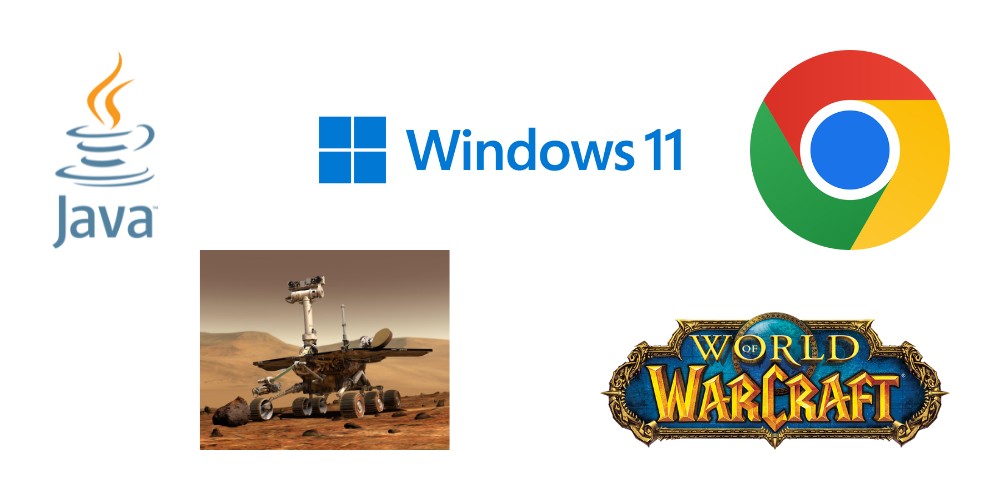
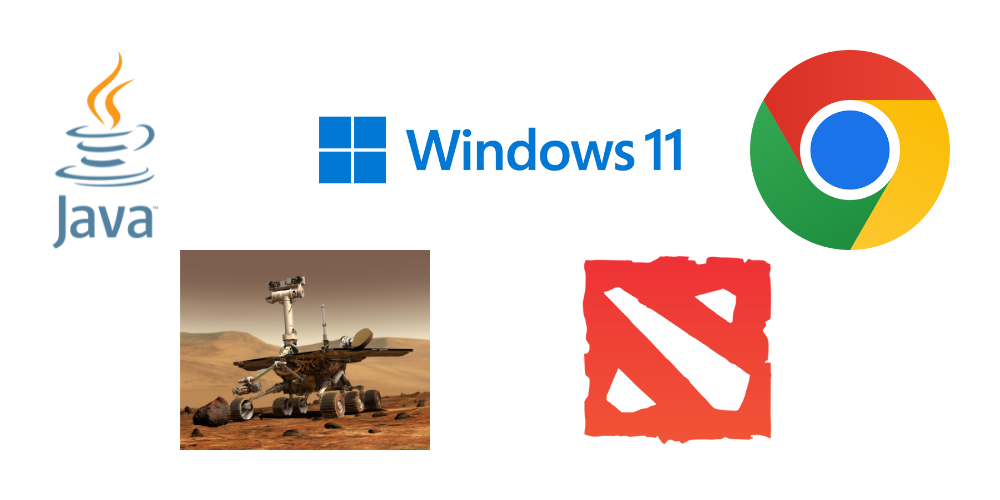
Change WoW with Dota

Changed region(s): [[0.558, 0.51, 0.961, 0.9], [0.155, 0.48, 0.465, 0.9]]

diff --git a/clases/01_introduccion_cpp/README.md b/clases/01_introduccion_cpp/README.md
@@ -16,7 +16,7 @@ Y también en la vida real!
 
 ![Usuarios de C++](/assets/images/cpp-users.png)
 
-*Java, Spirit, Windows 11, World of Warcraft, Google Chrome.*
+*Java, Spirit, Windows 11, Dota, Google Chrome.*
 
 Además, es bastante rápido.
 
